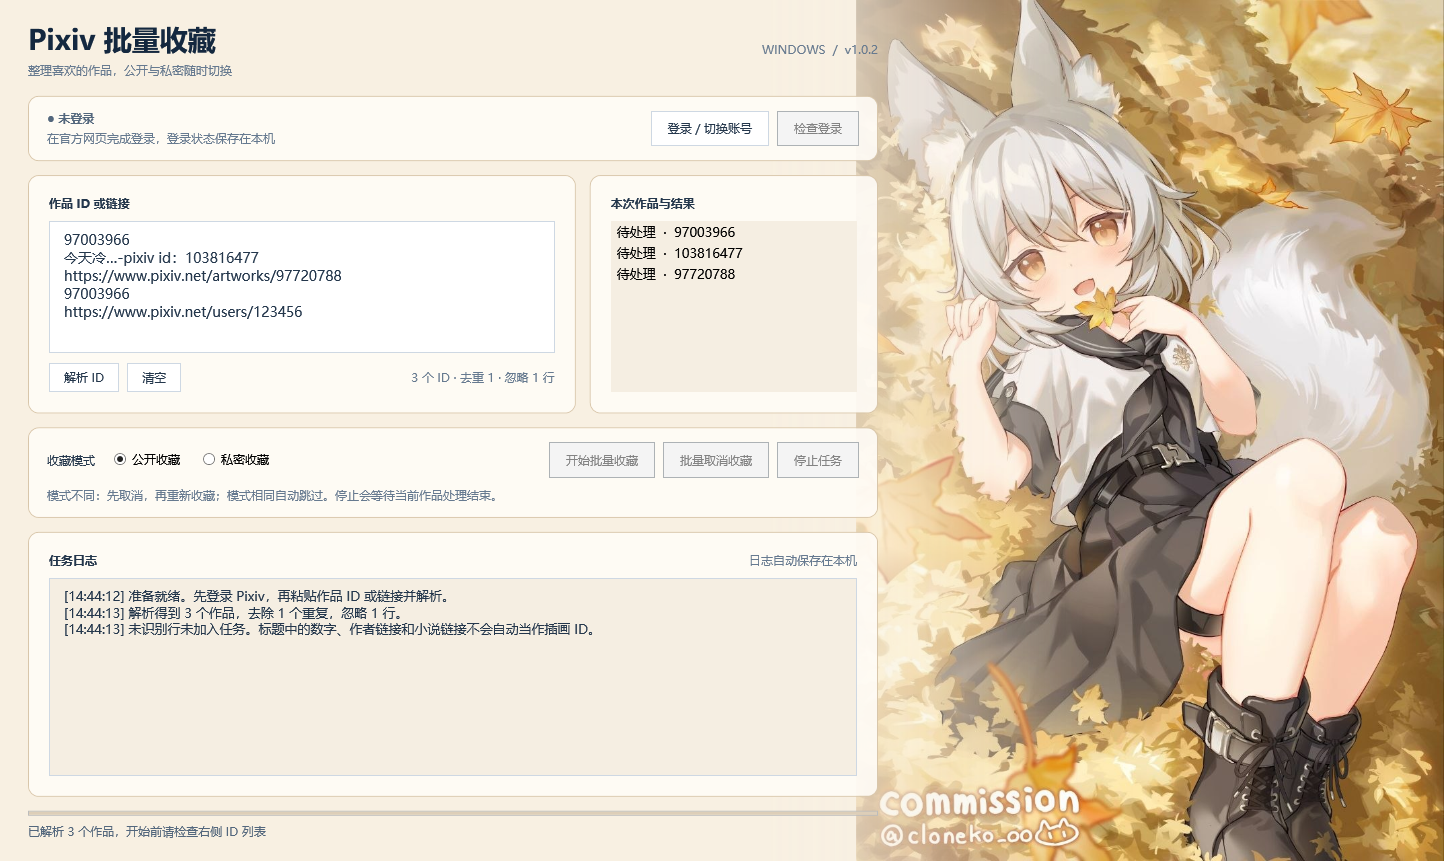
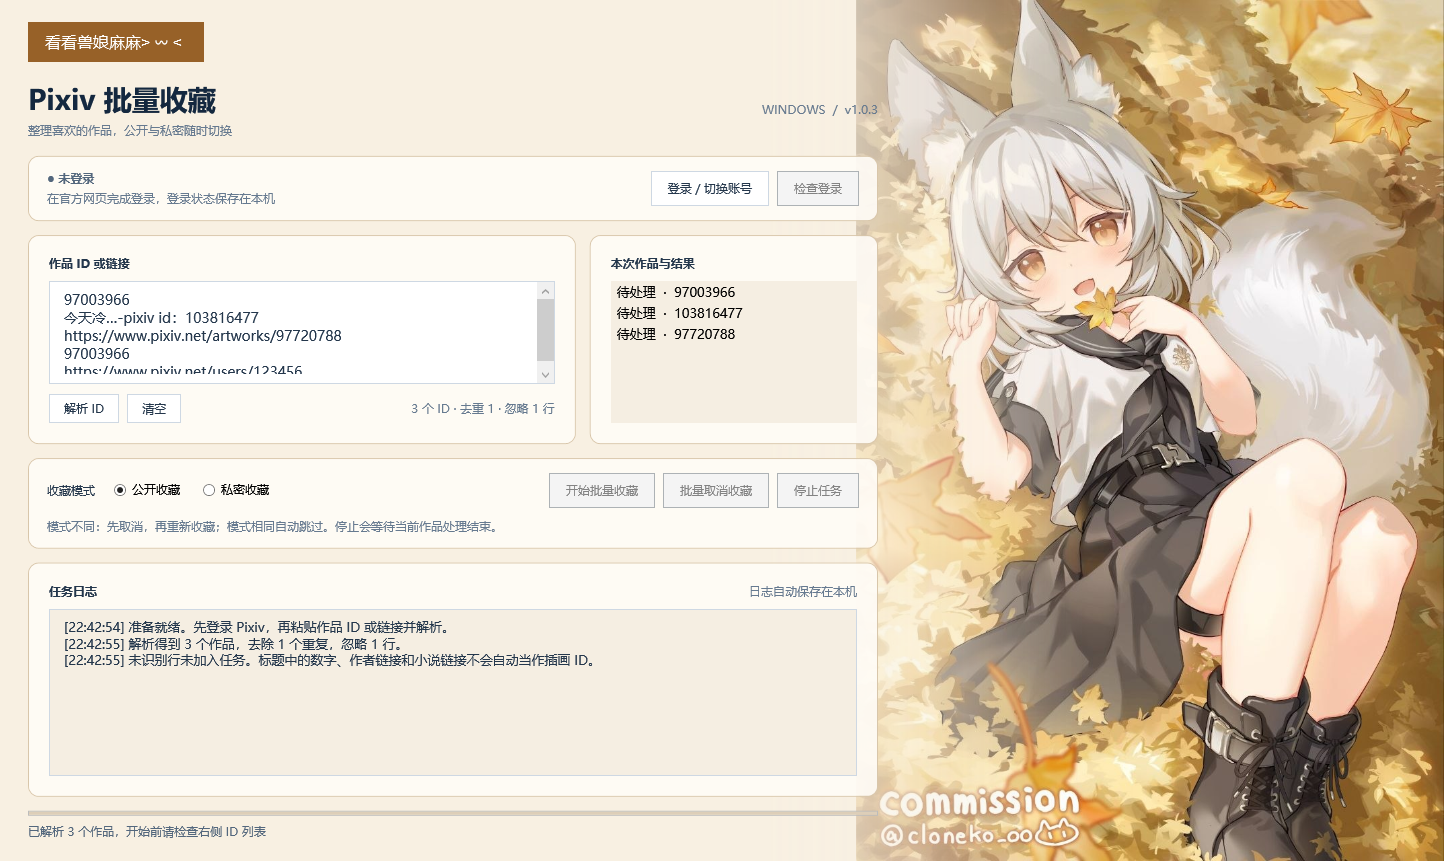
feat: add wallpaper viewing toggle with preserved interface state

diff --git a/src/PixivBatchBookmark.Windows/MainWindow.xaml b/src/PixivBatchBookmark.Windows/MainWindow.xaml
@@ -1,18 +1,18 @@
 <Window x:Class="PixivBatchBookmark.Windows.MainWindow"
  xmlns="http://schemas.microsoft.com/winfx/2006/xaml/presentation"
  xmlns:x="http://schemas.microsoft.com/winfx/2006/xaml"
- Title="Pixiv 批量收藏 · Windows 1.0.2" Icon="pack://application:,,,/PixivBatchBookmark;component/Assets/AppIcon.ico" Width="1460" Height="900" MinWidth="1000" MinHeight="740" WindowStartupLocation="CenterScreen" Closing="Window_Closing">
+ Title="Pixiv 批量收藏 · Windows 1.0.3" Icon="pack://application:,,,/PixivBatchBookmark;component/Assets/AppIcon.ico" Width="1460" Height="900" MinWidth="1000" MinHeight="740" WindowStartupLocation="CenterScreen" Closing="Window_Closing">
  <Grid Background="#F8F0E2">
   <!-- Preserve the supplied wallpaper proportions; keep the controls over a readable warm background. -->
-  <Image x:Name="WallpaperImage" Source="pack://application:,,,/PixivBatchBookmark;component/Assets/Wallpaper.png" Stretch="Uniform" HorizontalAlignment="Right" />
-  <Rectangle IsHitTestVisible="False">
+  <Image x:Name="WallpaperImage" Source="pack://application:,,,/PixivBatchBookmark;component/Assets/Wallpaper.png" Stretch="Uniform" HorizontalAlignment="Right" IsHitTestVisible="False" Panel.ZIndex="0" />
+  <Rectangle x:Name="WallpaperShade" IsHitTestVisible="False" Panel.ZIndex="1">
    <Rectangle.Fill><LinearGradientBrush StartPoint="0,0" EndPoint="1,0"><GradientStop Color="#FFF8F0E2" Offset="0"/><GradientStop Color="#FFF8F0E2" Offset="0.53"/><GradientStop Color="#00F8F0E2" Offset="0.75"/></LinearGradientBrush></Rectangle.Fill>
   </Rectangle>
- <Grid Margin="28,22" Width="850" HorizontalAlignment="Left">
+ <Grid x:Name="InterfacePanel" Margin="28,82,28,22" Width="850" HorizontalAlignment="Left" Panel.ZIndex="2">
   <Grid.RowDefinitions><RowDefinition Height="Auto"/><RowDefinition Height="Auto"/><RowDefinition Height="*"/><RowDefinition Height="Auto"/><RowDefinition Height="1.05*"/><RowDefinition Height="Auto"/></Grid.RowDefinitions>
   <Grid Grid.Row="0" Margin="0,0,0,18">
    <StackPanel><TextBlock Text="Pixiv 批量收藏" FontSize="28" FontWeight="SemiBold" Foreground="#14283F"/><TextBlock Text="整理喜欢的作品，公开与私密随时切换" Foreground="#667A90" Margin="0,5,0,0"/></StackPanel>
-   <TextBlock Text="WINDOWS  /  v1.0.2" HorizontalAlignment="Right" VerticalAlignment="Center" Foreground="#667A90" FontSize="12"/>
+   <TextBlock Text="WINDOWS  /  v1.0.3" HorizontalAlignment="Right" VerticalAlignment="Center" Foreground="#667A90" FontSize="12"/>
   </Grid>
   <Border Grid.Row="1" Style="{StaticResource Card}" Margin="0,0,0,14" Padding="18,14">
    <Grid><Grid.ColumnDefinitions><ColumnDefinition Width="*"/><ColumnDefinition Width="Auto"/><ColumnDefinition Width="Auto"/></Grid.ColumnDefinitions>
@@ -69,5 +69,7 @@
    <TextBlock Grid.Row="1" x:Name="Summary" Text="等待登录并输入作品" Foreground="#53677D" Margin="0,8,0,0"/>
   </Grid>
  </Grid>
+  <!-- Keep the toggle outside the collapsible interface so the user can always return. -->
+  <Button x:Name="WallpaperButton" Content="看看兽娘麻麻˃ 𖥦 ˂ " Click="Wallpaper_Click" Style="{StaticResource PrimaryButton}" FontFamily="Microsoft YaHei UI, Segoe UI Historic" FontSize="16" HorizontalAlignment="Left" VerticalAlignment="Top" Margin="28,22,0,0" Panel.ZIndex="4" />
  </Grid>
 </Window>

diff --git a/tests/PixivBatchBookmark.UiSmoke/Program.cs b/tests/PixivBatchBookmark.UiSmoke/Program.cs
@@ -37,6 +37,33 @@ internal static class Program
                 Check(Control<ListBox>("IdList").Items.Count == 3, "parse populates three artwork IDs");
                 Check(Control<TextBlock>("ParseStatus").Text.Contains("去重 1") && Control<TextBlock>("ParseStatus").Text.Contains("忽略 1"), "duplicates and ignored lines shown");
                 Check(Control<TextBox>("LogBox").Text.Contains("解析得到 3"), "task log displays parse result");
+                // Viewing the wallpaper must preserve the user's unfinished work.
+                Check(window.FindName("WallpaperButton") is Button, "wallpaper toggle is available in the main window");
+                var savedInput = input.Text;
+                var savedRows = Control<ListBox>("IdList").Items.Cast<string>().ToArray();
+                var savedLog = Control<TextBox>("LogBox").Text;
+                Control<RadioButton>("PrivateMode").IsChecked = true;
+                Control<ProgressBar>("TaskProgress").Maximum = 3;
+                Control<ProgressBar>("TaskProgress").Value = 1;
+                Click("WallpaperButton");
+                Check(Control<Grid>("InterfacePanel").Visibility == Visibility.Collapsed && Control<System.Windows.Shapes.Rectangle>("WallpaperShade").Visibility == Visibility.Collapsed && Panel.GetZIndex(Control<Image>("WallpaperImage")) > Panel.GetZIndex(Control<Grid>("InterfacePanel")) && Control<Image>("WallpaperImage").HorizontalAlignment == HorizontalAlignment.Center, "wallpaper mode hides the interface and displays the foreground wallpaper");
+                Check(Control<Button>("WallpaperButton").IsVisible && Control<Button>("WallpaperButton").IsEnabled && (string)Control<Button>("WallpaperButton").Content == "再见兽娘麻麻⊙﹏⊙", "visible restore button uses the requested label");
+                if (args.Length > 0)
+                {
+                    window.UpdateLayout();
+                    var wallpaperRoot = (FrameworkElement)VisualTreeHelper.GetChild(window, 0);
+                    var wallpaperBitmap = new RenderTargetBitmap((int)wallpaperRoot.ActualWidth, (int)wallpaperRoot.ActualHeight, 96, 96, PixelFormats.Pbgra32);
+                    wallpaperBitmap.Render(window); var wallpaperEncoder = new PngBitmapEncoder(); wallpaperEncoder.Frames.Add(BitmapFrame.Create(wallpaperBitmap));
+                    var wallpaperPath = Path.Combine(Path.GetDirectoryName(Path.GetFullPath(args[0]))!, Path.GetFileNameWithoutExtension(args[0]) + "_wallpaper.png");
+                    using var wallpaperOutput = File.Create(wallpaperPath); wallpaperEncoder.Save(wallpaperOutput);
+                    Console.WriteLine("Wallpaper render: " + wallpaperPath);
+                }
+                Click("WallpaperButton");
+                Check(Control<Grid>("InterfacePanel").Visibility == Visibility.Visible && Control<System.Windows.Shapes.Rectangle>("WallpaperShade").Visibility == Visibility.Visible && Panel.GetZIndex(Control<Image>("WallpaperImage")) < Panel.GetZIndex(Control<Grid>("InterfacePanel")) && Control<Image>("WallpaperImage").HorizontalAlignment == HorizontalAlignment.Right && (string)Control<Button>("WallpaperButton").Content == "看看兽娘麻麻˃ 𖥦 ˂ ", "leaving wallpaper mode restores the interface and background wallpaper");
+                Check(input.Text == savedInput && Control<ListBox>("IdList").Items.Cast<string>().SequenceEqual(savedRows) && Control<TextBox>("LogBox").Text == savedLog && Control<RadioButton>("PrivateMode").IsChecked == true && Control<ProgressBar>("TaskProgress").Value == 1, "wallpaper round trip preserves input results logs mode and progress");
+                Control<RadioButton>("PublicMode").IsChecked = true;
+                Control<ProgressBar>("TaskProgress").Value = 0;
+                Control<ProgressBar>("TaskProgress").Maximum = 1;
                 if (args.Length > 0)
                 {
                     window.UpdateLayout();

diff --git a/src/PixivBatchBookmark.Windows/MainWindow.xaml.cs b/src/PixivBatchBookmark.Windows/MainWindow.xaml.cs
@@ -26,6 +26,16 @@ public partial class MainWindow : Window
         Log("准备就绪。先登录 Pixiv，再粘贴作品 ID 或链接并解析。");
     }
 
+    private void Wallpaper_Click(object sender, RoutedEventArgs e)
+    {
+        // Change only visibility and layering; inputs and running tasks keep their state.
+        var wallpaperOnly = InterfacePanel.Visibility == Visibility.Visible;
+        InterfacePanel.Visibility = WallpaperShade.Visibility = wallpaperOnly ? Visibility.Collapsed : Visibility.Visible;
+        WallpaperImage.HorizontalAlignment = wallpaperOnly ? HorizontalAlignment.Center : HorizontalAlignment.Right;
+        System.Windows.Controls.Panel.SetZIndex(WallpaperImage, wallpaperOnly ? 3 : 0);
+        WallpaperButton.Content = wallpaperOnly ? "再见兽娘麻麻⊙﹏⊙" : "看看兽娘麻麻˃ 𖥦 ˂ ";
+    }
+
     private void Parse_Click(object sender, RoutedEventArgs e) => ParseInput();
     private void Clear_Click(object sender, RoutedEventArgs e)
     {

diff --git a/README.md b/README.md
@@ -1,14 +1,20 @@
-# Pixiv 批量收藏工具 Windows v1.0.2
+# Pixiv 批量收藏工具 Windows v1.0.3
 
 中文 WPF 桌面工具，按 Android v0.1.5 的已确认规则重新实现。支持插画、漫画和动图的作品 ID。
 
 ## 下载
 
-- [Windows x64 便携包（完整解压后运行）](https://github.com/37f/PixivBatchBookmark-Windows/releases/download/v1.0.2/PixivBatchBookmark_Windows_v1.0.2_win-x64.zip)
-- [完整源码与构建脚本](https://github.com/37f/PixivBatchBookmark-Windows/releases/download/v1.0.2/PixivBatchBookmark_Windows_v1.0.2_source.zip)
-- [版本说明和校验文件](https://github.com/37f/PixivBatchBookmark-Windows/releases/tag/v1.0.2)
+- [Windows x64 便携包（完整解压后运行）](https://github.com/37f/PixivBatchBookmark-Windows/releases/download/v1.0.3/PixivBatchBookmark_Windows_v1.0.3_win-x64.zip)
+- [完整源码与构建脚本](https://github.com/37f/PixivBatchBookmark-Windows/releases/download/v1.0.3/PixivBatchBookmark_Windows_v1.0.3_source.zip)
+- [版本说明和校验文件](https://github.com/37f/PixivBatchBookmark-Windows/releases/tag/v1.0.3)
 
 ![Windows 桌面界面](docs/preview.png)
+
+## v1.0.3 壁纸查看切换
+
+主窗口顶部新增“看看兽娘麻麻˃ 𖥦 ˂ ”按钮。点击后隐藏账号、输入、操作区及日志，壁纸居中显示在前层；按钮变为“再见兽娘麻麻⊙﹏⊙”，再次点击恢复操作界面和右侧背景壁纸。输入、作品列表、收藏模式、日志及进度保留；切换只影响显示，运行中的任务继续按原流程执行。按钮始终可见、可用。这里的置顶/置低指主窗口内的图层顺序。
+
+![壁纸查看模式](docs/wallpaper-preview.png)
 
 ## v1.0.2 登录检测修复
 
@@ -97,7 +103,7 @@ powershell -NoProfile -ExecutionPolicy Bypass -File .\build.ps1
 
 ```text
 dist\win-x64\PixivBatchBookmark.exe
-dist\PixivBatchBookmark_Windows_v1.0.2_win-x64.zip
+dist\PixivBatchBookmark_Windows_v1.0.3_win-x64.zip
 ```
 
 用单独解压的 SDK 或执行可见的界面冒烟检查：

diff --git a/docs/VALIDATION.md b/docs/VALIDATION.md
@@ -50,3 +50,12 @@
 实际程序流程只读检查通过：主窗口“登录 / 切换账号”→官方登录窗口“完成登录并检查”→主窗口识别账号且操作按钮可用；再次点击“检查登录”，使用 Cookie 内存快照访问官方服务器，确认同一账号和更新后的令牌。此次没有执行收藏或取消收藏请求。
 
 本次 11 项 WPF/WebView2 界面检查全部通过；实际登录确认与服务器账号检查的独立只读验证程序以退出码 0 完成。
+
+
+## v1.0.3 壁纸查看切换验证
+
+切换按钮位于操作面板外，查看壁纸时仅隐藏操作面板和遮罩，壁纸图层升高并居中，返回按钮仍可见；恢复后重新显示操作面板和遮罩，壁纸回到右侧背景图层。未重建窗口或数据，也未修改任务执行逻辑。
+
+新增 5 项实际 WPF 检查。添加功能前观察到缺少切换按钮的预期失败；实现后验证查看/返回两种状态、指定按钮文字、返回按钮可见可用，以及输入、作品列表、日志、收藏模式、进度在往返切换后保持一致。两种状态均输出实际窗口截图。
+
+本次 56 项离线逻辑测试及 16 项 WPF/WebView2 界面检查全部通过。已检查指定表情的显示效果，并确认壁纸完整比例和署名保留。
